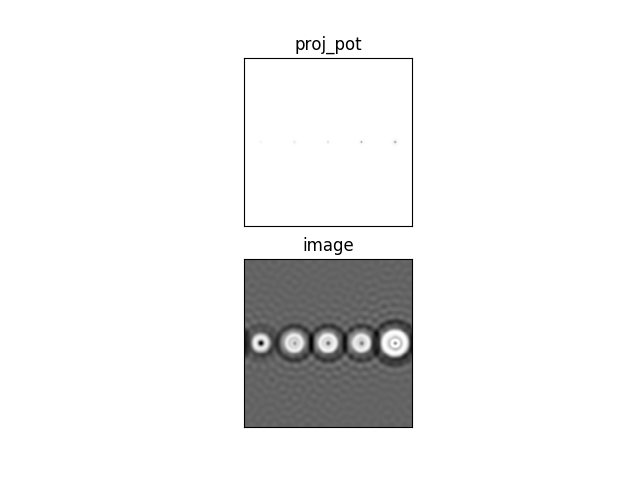
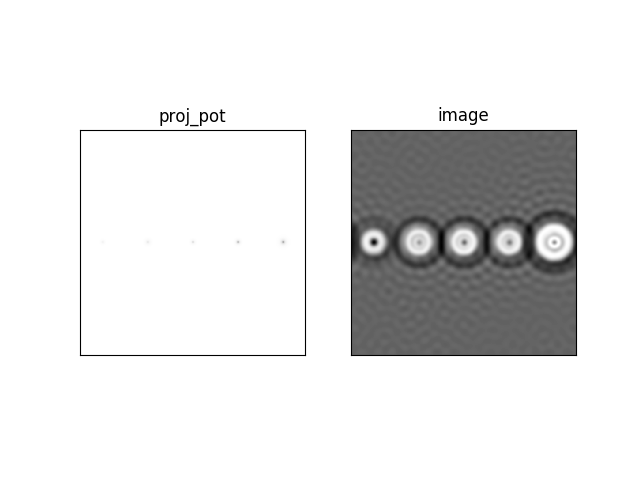
update

diff --git a/EM.py b/EM.py
@@ -104,7 +104,7 @@ class EM:
 
 
 if __name__=="__main__":
-    fig, (ax1, ax2) = plt.subplots(2)
+    fig, (ax1, ax2) = plt.subplots(ncols = 2)
     # set specimen
     s = Specimen(dimension=50)
     s.add_atoms()
